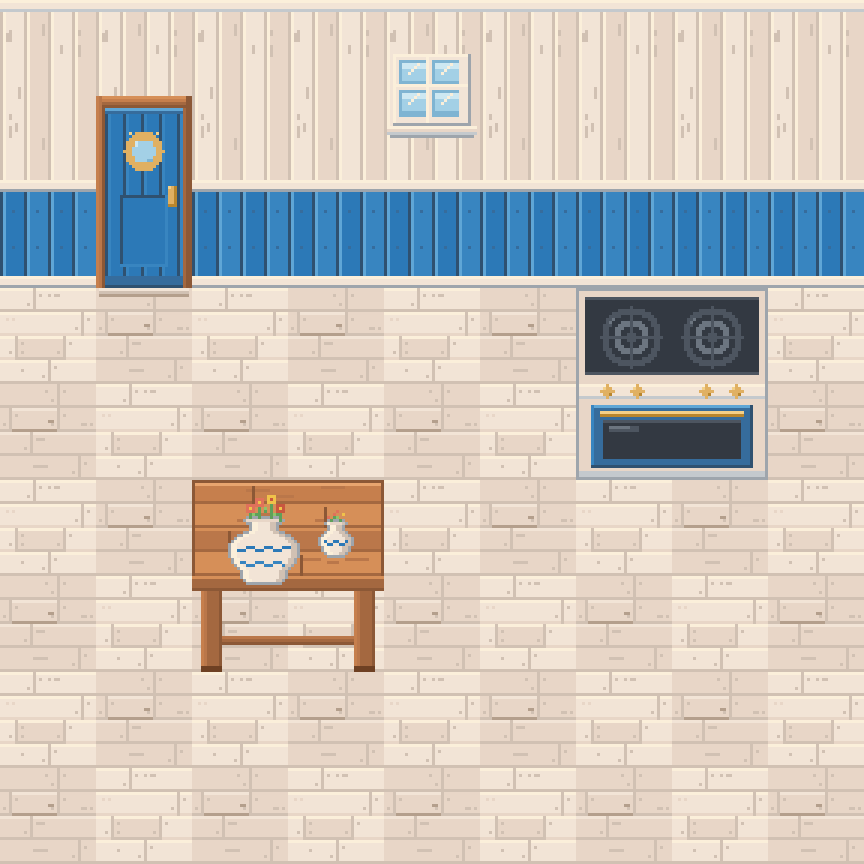
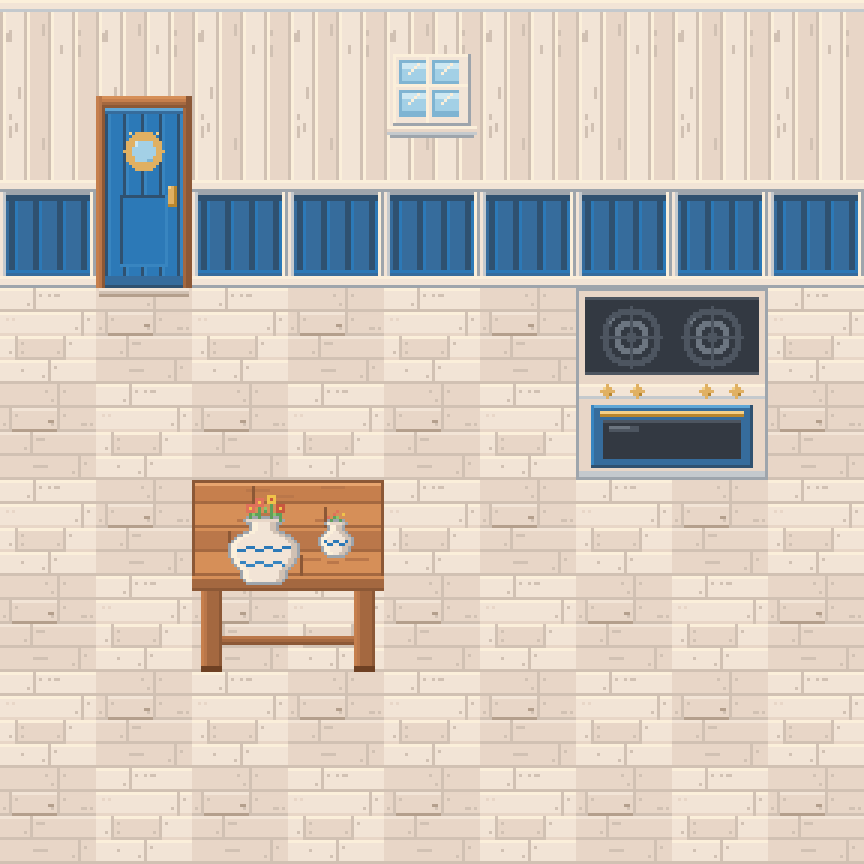
Pilot pixel art: framed recessed wall panels, matching side wall
Claude-Session: https://claude.ai/code/session_017R2xVMGFyizhgT3oNq3RGh

Changed region(s): [[0.2188, 0.2188, 1.0, 0.3438], [0.0, 0.2188, 0.125, 0.3438]]

diff --git a/tools/pixelart/shop_pilot.py b/tools/pixelart/shop_pilot.py
@@ -64,6 +64,18 @@ def planks(p, x0, x1, y0, y1, a, b, hi, seam, w=8):
         if x % w == 0: p.vline(x, y0, y1, seam)
         if x % w == 1: p.vline(x, y0, y1, hi)
 
+def panel(p, x0, x1, y0, y1):
+    """A blue wainscot panel set into a cream frame: the inside is darker than the frame, shaded along its top and left (it is recessed),
+    and every 32 px a cream stile frames it, so the frame runs all round each panel."""
+    for y in range(y0, y1 + 1):
+        for x in range(x0, x1 + 1): p.set(x, y, 'b1')
+    for x in range(x0 + 2, x1 - 1):                                                            # vertical boards inside, darker than before
+        if (x - x0) % 8 in (3, 4): p.vline(x, y0 + 3, y1 - 2, 'b0')
+        elif (x - x0) % 8 == 5: p.vline(x, y0 + 3, y1 - 2, 'b2')
+    p.hline(x0, x1, y0, 'n0'); p.hline(x0, x1, y0 + 1, 'b0'); p.hline(x0, x1, y0 + 2, 'b0')   # shadow under the top rail
+    p.vline(x0, y0, y1, 'c3'); p.vline(x0 + 1, y0, y1, 'n1'); p.vline(x1, y0, y1, 'n0'); p.vline(x1 - 1, y0, y1, 'c4')   # stiles of the frame
+    p.hline(x0 + 2, x1 - 2, y1 - 1, 'b2')                                                      # lit lower edge inside
+
 def wall_plain():
     p = Pix(32, 96)
     planks(p, 0, 31, 4, 59, 'c3', 'c2', 'c4', 'c1')
@@ -73,8 +85,7 @@ def wall_plain():
         if x % 8 not in (0, 1): p.vline(x, y, y + rnd.randint(1, 3), 'c1')
     p.rect(0, 0, 31, 3, 'c3'); p.hline(0, 31, 0, 'c4'); p.hline(0, 31, 3, 'n1')               # top trim
     p.rect(0, 60, 31, 63, 'c3'); p.hline(0, 31, 60, 'c4'); p.hline(0, 31, 63, 'n0')            # chair rail
-    planks(p, 0, 31, 64, 91, 'b2', 'b3', 'b4', 'b0')                                          # blue panelling
-    for x in range(0, 32, 8): p.set(x + 4, 70, 'b1'); p.set(x + 4, 82, 'b1')
+    panel(p, 0, 31, 64, 91)                                                                    # framed, recessed blue panel
     p.rect(0, 92, 31, 95, 'c3'); p.hline(0, 31, 92, 'c4'); p.hline(0, 31, 95, 'n0')           # skirting
     return p.im
 
@@ -92,7 +103,7 @@ def wall_side():
         p.set(0, y, 'c4'); p.rect(1, y, 5, y, 'c3'); p.set(6, y, 'c2'); p.set(7, y, 'c1')
     p.rect(0, 60, 7, 63, 'c3'); p.hline(0, 7, 60, 'c4'); p.hline(0, 7, 63, 'n0')            # chair rail
     for y in range(64, 92):
-        p.set(0, y, 'b4'); p.rect(1, y, 5, y, 'b3'); p.set(6, y, 'b2'); p.set(7, y, 'b1')
+        p.set(0, y, 'c4'); p.rect(1, y, 5, y, 'b1'); p.set(6, y, 'b0'); p.set(7, y, 'n0')
     p.rect(0, 92, 7, 95, 'c3'); p.hline(0, 7, 92, 'c4'); p.hline(0, 7, 95, 'n0')
     return p.im
 
